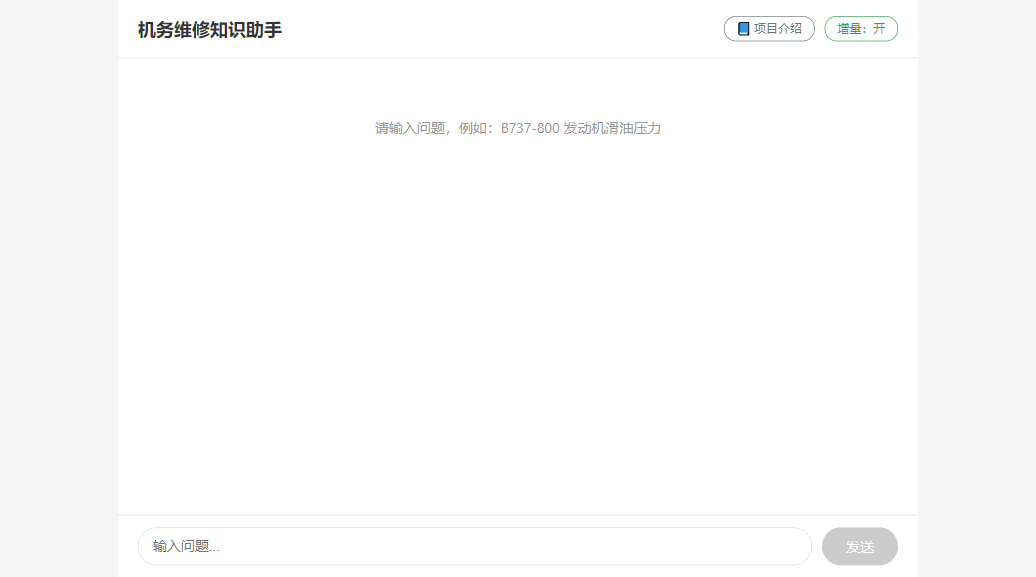
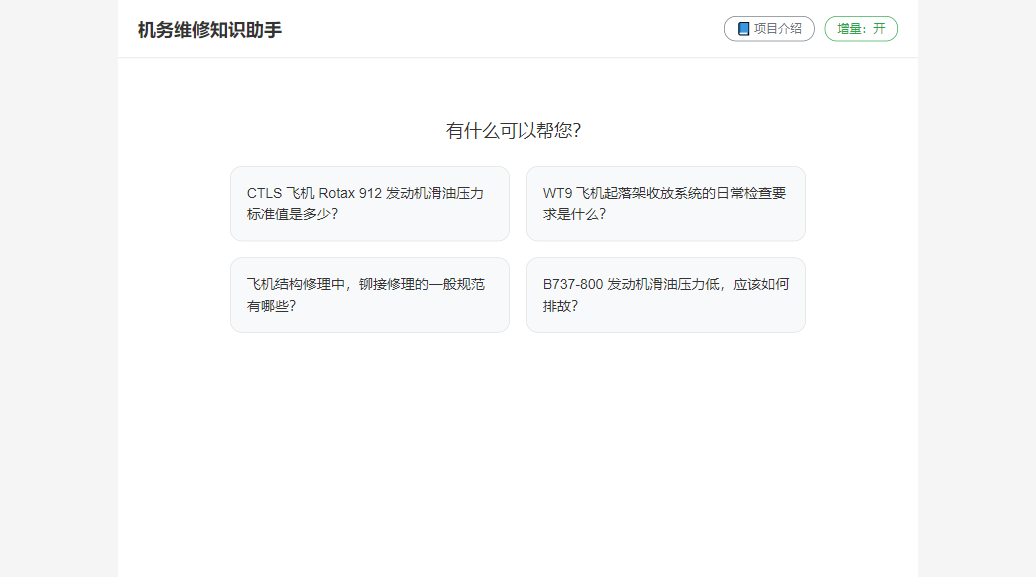
docs(readme): 更新初始界面截图，展示快捷体验气泡
- 前端已增加 4 个推荐问题气泡，原截图未体现该特性
- 从线上 https://pandazi.cn 截取新图，保持 1036x577 尺寸
- 在 README 初始界面小节补充气泡功能说明

diff --git a/README.md b/README.md
@@ -23,6 +23,8 @@
 
 ### 初始界面
 
+空对话状态下，页面中央展示 4 个快捷体验气泡，覆盖发动机、起落架、结构修理、航线排故四类典型场景，点击即可一键发送问题。
+
 ![初始界面](docs/assets/screenshots/scenario0-initial.png)
 
 ### 场景一：正确机型匹配 + RAG 检索
